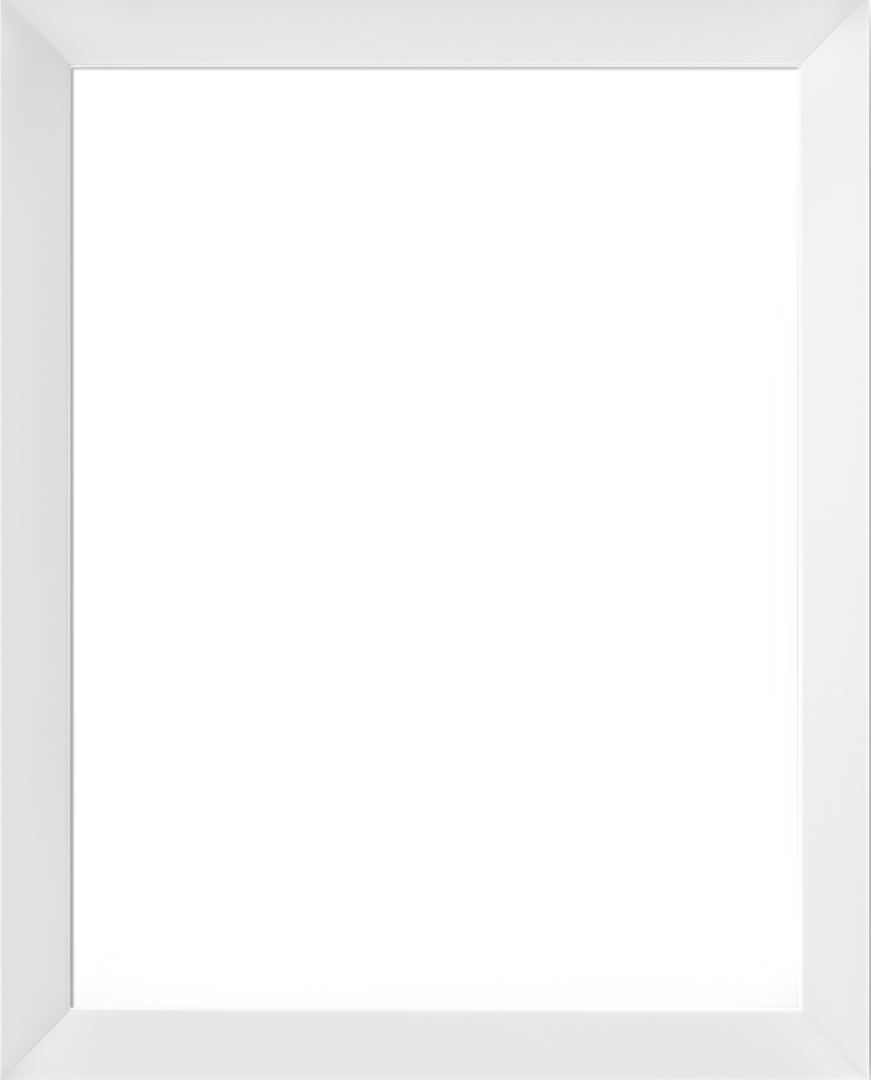
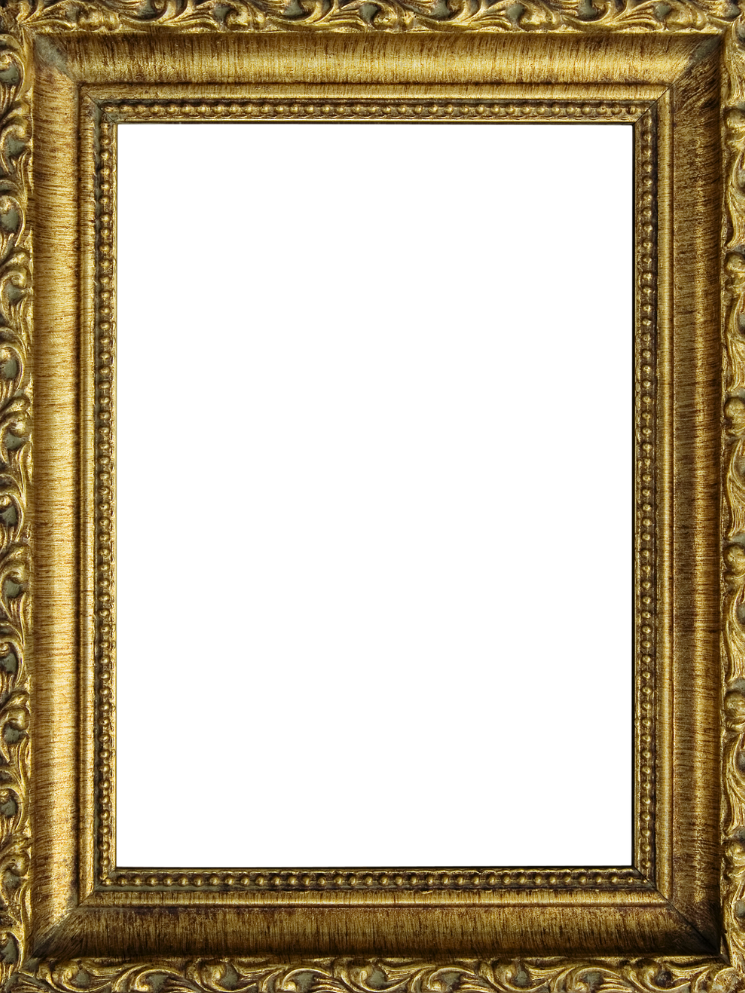
Updated files

diff --git a/index.html b/index.html
@@ -10,7 +10,9 @@
     <style>
         #borderimg {
             border: 100px solid transparent;
-            border-image: url(./images/frame4.png) 18% round;
+            border-image-source: url(./images/frame0.png);
+            border-image-slice: 18%;
+            border-image-repeat: round;
         }
 
         .row {
@@ -189,8 +191,10 @@
 
                                         </ul>
                                         </p>
-                                        <button type="submit" onclick="changeBorderImage()" value="'{" image" : "4"
-                                            }'">SELECT</button>
+                                        <button id="image" value='{"image": "2"}'>
+                                            Select
+                                        </button>
+
                                     </div>
                                 </div>
                             </div>
@@ -230,14 +234,7 @@
 
     <script>
 
-        $("#width").on('change', function () {
 
-            var width = document.getElementById('width').value;
-
-            var borderProperty = "url(./images/frame4.png)" + width + "% round";
-
-            $("#borderimg").css("border-image", borderProperty);
-        })
 
         $("#height").on('change', function () {
 
@@ -247,6 +244,15 @@
 
             $("#uploaded-image").css("margin-top", borderProperty);
             $("#uploaded-image").css("margin-bottom", borderProperty);
+        })
+
+        $("#width").on('change', function () {
+
+            var width = document.getElementById('width').value;
+
+            var borderProperty = width + "%";
+
+            $("#borderimg").css("border-image-slice", borderProperty);
         })
 
         $("#sizes").on('change select', function () {
@@ -260,9 +266,21 @@
             document.getElementById("width").value = width;
             document.getElementById("height").value = height;
 
-            var borderProperty = "url(./images/frame4.png)" + width + "% round";
+            var borderProperty = width + "%";
 
-            $("#borderimg").css("border-image", borderProperty);
+            $("#borderimg").css("border-image-slice", borderProperty);
+
+        })
+
+        $("#image").on('click', function () {
+
+            var size = $.parseJSON($(this).val());
+            var number = size['image'];
+            console.log(number);
+
+            var borderProperty = "url(./images/frame" + number + ".png)";
+
+            $("#borderimg").css("border-image-source", borderProperty);
 
         })
 
@@ -295,12 +313,7 @@
             evt.currentTarget.className += " active";
         }
 
-        function changeBorderImage() {
-            var image = $.parseJSON($(this).val());
-            var setImage = image['setImage'];
-            Set frameDisplay =  
 
-        }
     </script>
 
 </body>
